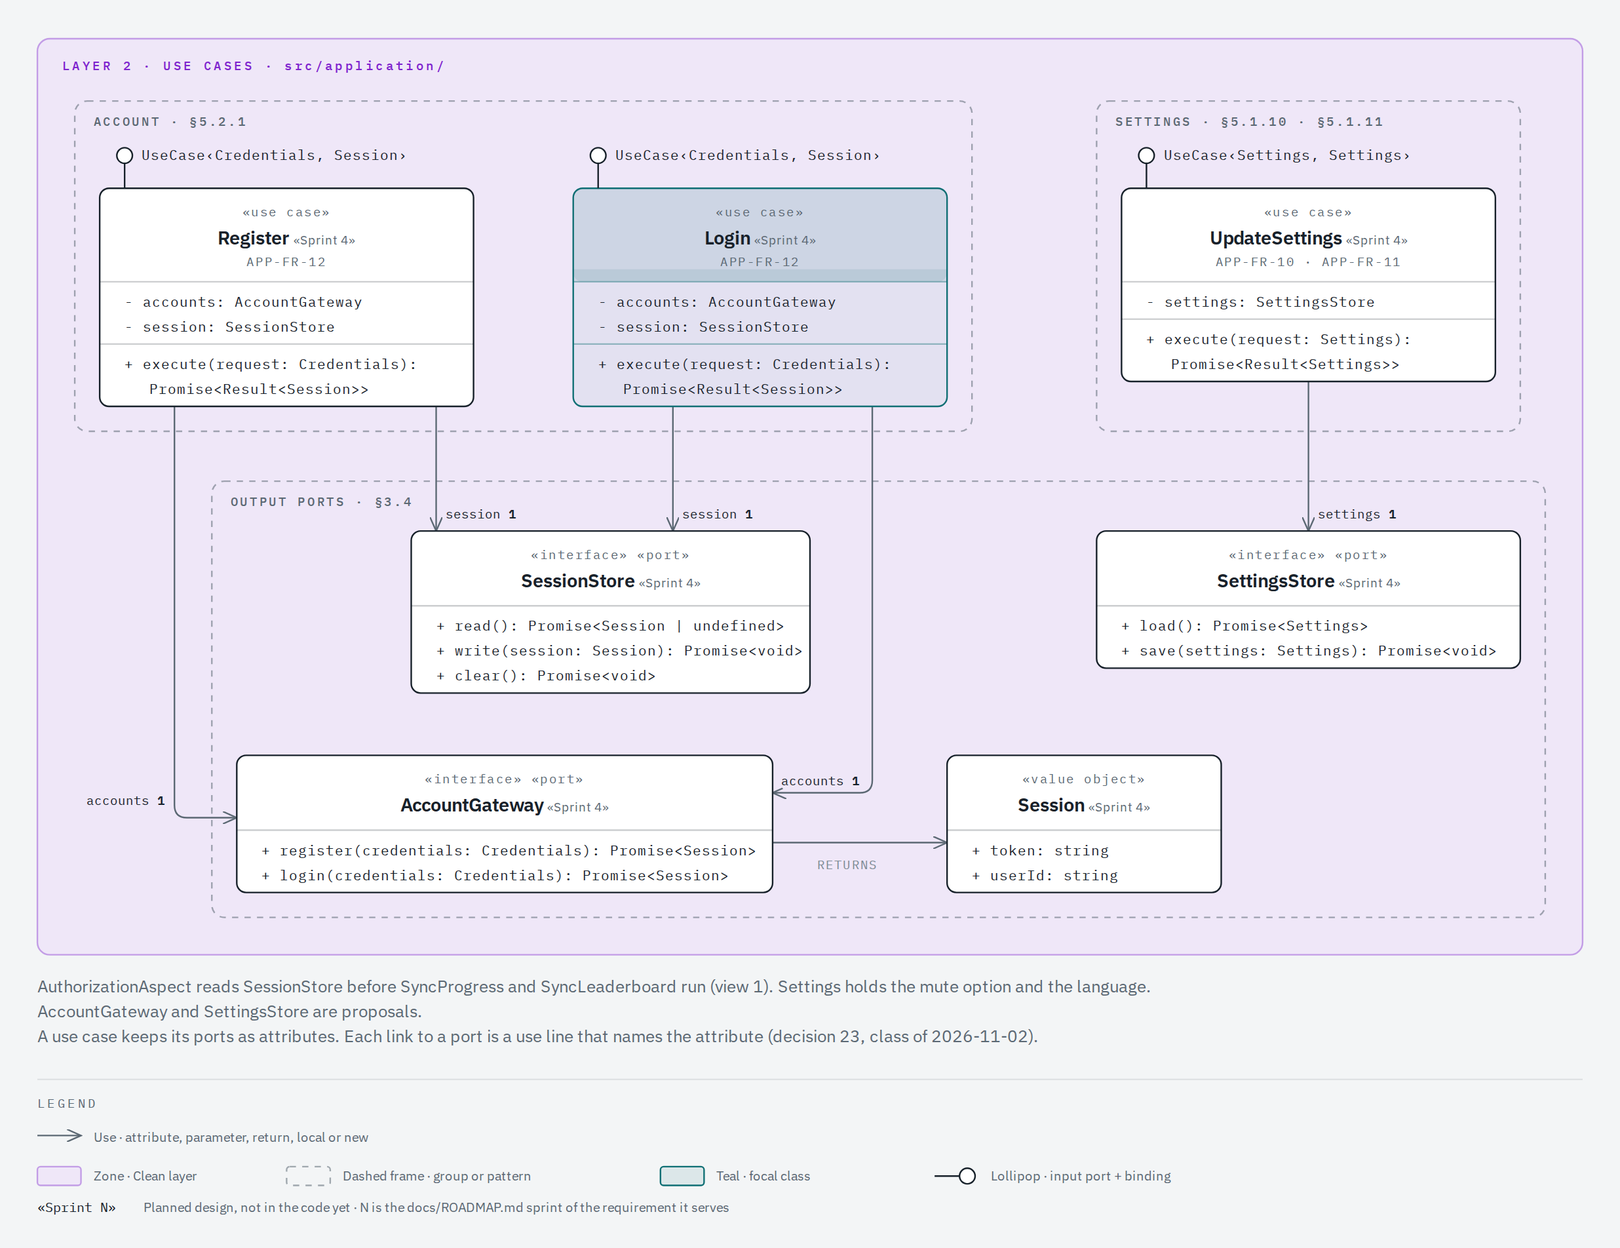
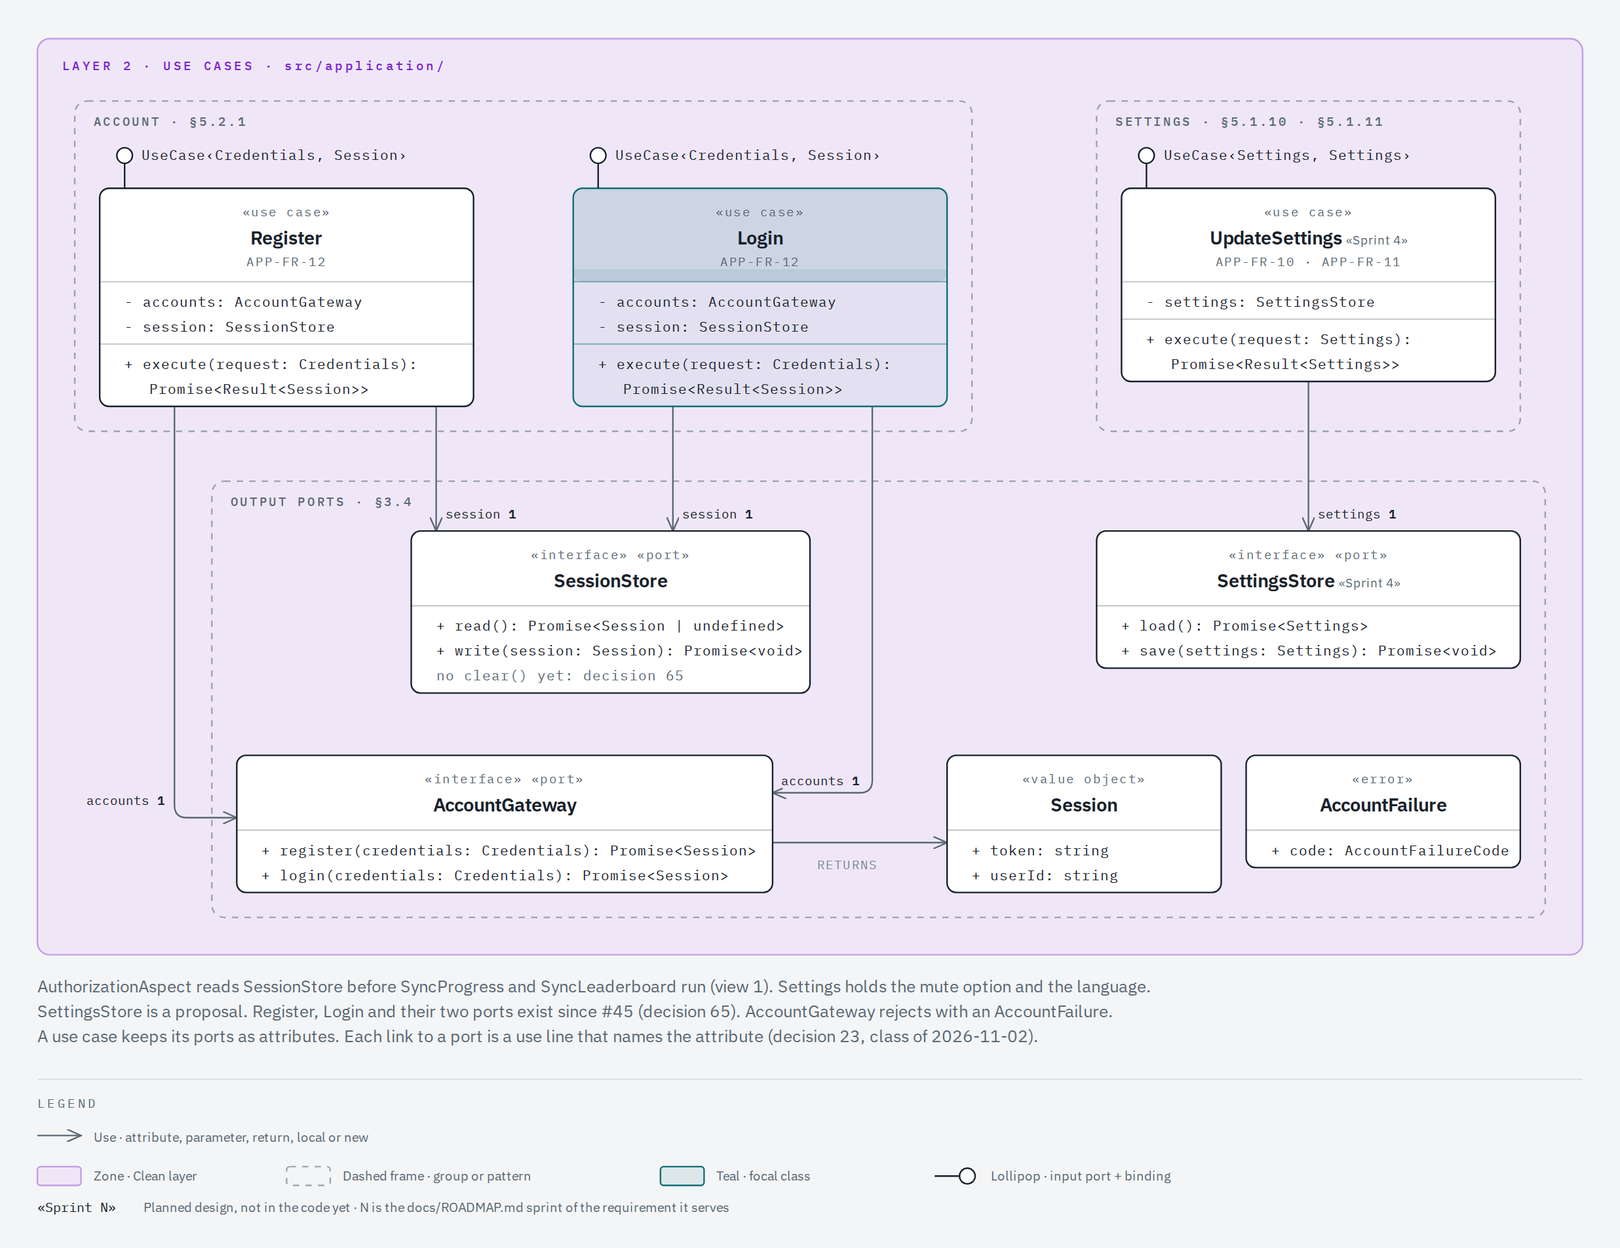
docs(architecture): record the account flow, decision 65 and the views (#45, part 3/5)

diff --git a/docs/architecture/classes/views/map-4-adapters.html b/docs/architecture/classes/views/map-4-adapters.html
@@ -64,24 +64,25 @@
       <h1>Adapters, presenters and drivers at a glance</h1>
 
       <svg
-        viewBox="0 0 1040 1981"
+        viewBox="0 0 1040 1997"
         xmlns="http://www.w3.org/2000/svg"
         role="img"
         aria-labelledby="mapad-title mapad-desc"
       >
         <title id="mapad-title">HexaBlock adapters map · UML class diagram</title>
         <desc id="mapad-desc">
-          Overview map of the 66 classes of layers 4 and 3 in 14 groups. The board layout group of
+          Overview map of the 69 classes of layers 4 and 3 in 14 groups. The board layout group of
           layer 3 holds BoardLayout, HexLayout, SquareLayout and TriangleLayout (#393). The
           composition root group holds CompositionRoot, GameRegistry, BoardFigure and the
-          ScreenServices interface of the screens (#411), the drivers group holds
-          SequentialMatchIds, the move controls group holds MoveControls, FitControls and
-          MergeControls, and the events group holds GameEventBus, GameEventListener and
-          AchievementCounterListener. Each line joins two classes: GameScreen renders BoardView and
-          keeps its GamePresenter and its MoveControls, CompositionRoot creates
-          InMemoryGameRepository, DeviceKeyValueStore implements KeyValueStore, GamePresenter keeps
-          its StateMapper and LocalProgressRepository keeps its KeyValueStore. No line touches a
-          group frame. Each group names the view that shows its members.
+          ScreenServices interface of the screens (#411), the drivers group holds SequentialMatchIds
+          and DeviceSecretStore, the repositories group holds SessionManager (#45), the move
+          controls group holds MoveControls, FitControls and MergeControls, and the events group
+          holds GameEventBus, GameEventListener and AchievementCounterListener. Each line joins two
+          classes: GameScreen renders BoardView and keeps its GamePresenter and its MoveControls,
+          CompositionRoot creates InMemoryGameRepository, DeviceKeyValueStore implements
+          KeyValueStore, DeviceSecretStore implements SecretStore, GamePresenter keeps its
+          StateMapper and LocalProgressRepository keeps its KeyValueStore. No line touches a group
+          frame. Each group names the view that shows its members.
         </desc>
         <defs>
           <marker
@@ -453,7 +454,7 @@
           x="744"
           y="806"
           width="240"
-          height="78"
+          height="128"
           rx="8"
           fill="none"
           stroke="rgba(91,104,115,0.55)"
@@ -660,6 +661,15 @@
         <!-- DeviceKeyValueStore implements KeyValueStore: realization, down into layer 3 (view 4.2) -->
         <path
           d="M968 209 L1000 209 L1000 851 L968 851"
+          fill="none"
+          stroke="#17212a"
+          stroke-width="1"
+          stroke-dasharray="5,4"
+          marker-end="url(#mapad-triangle)"
+        />
+        <!-- DeviceSecretStore implements SecretStore: realization, down into layer 3 (#45, view 4.4). It runs right of the line of DeviceKeyValueStore and crosses no line. -->
+        <path
+          d="M968 159 L1008 159 L1008 901 L968 901"
           fill="none"
           stroke="#17212a"
           stroke-width="1"
@@ -1032,7 +1042,7 @@
             </tspan>
           </text>
         </g>
-        <g data-class="SessionManager">
+        <g data-class="ConsoleLogger">
           <rect
             x="672"
             y="92"
@@ -1045,7 +1055,7 @@
           />
           <text x="742" y="113" fill="#17212a" text-anchor="middle">
             <tspan font-family="'IBM Plex Sans', sans-serif" font-size="11" font-weight="600">
-              SessionManager
+              ConsoleLogger
             </tspan>
           </text>
         </g>
@@ -1083,7 +1093,7 @@
             </tspan>
           </text>
         </g>
-        <g data-class="ConsoleLogger">
+        <g data-class="DeviceSecretStore">
           <rect
             x="828"
             y="142"
@@ -1096,7 +1106,7 @@
           />
           <text x="898" y="163" fill="#17212a" text-anchor="middle">
             <tspan font-family="'IBM Plex Sans', sans-serif" font-size="11" font-weight="600">
-              ConsoleLogger
+              DeviceSecretStore
             </tspan>
           </text>
         </g>
@@ -1540,6 +1550,34 @@
             </tspan>
           </text>
         </g>
+        <g data-class="SecretStore">
+          <rect
+            x="848"
+            y="884"
+            width="120"
+            height="34"
+            rx="4"
+            fill="#ffffff"
+            stroke="#17212a"
+            stroke-width="1"
+          />
+          <text
+            x="908"
+            y="896"
+            fill="#5b6873"
+            font-size="7"
+            font-family="'IBM Plex Mono', monospace"
+            text-anchor="middle"
+            letter-spacing="0.08em"
+          >
+            interface
+          </text>
+          <text x="908" y="909" fill="#17212a" text-anchor="middle">
+            <tspan font-family="'IBM Plex Sans', sans-serif" font-size="11" font-weight="600">
+              SecretStore
+            </tspan>
+          </text>
+        </g>
         <!-- Chips: state mappers -->
         <g data-class="StateMapper">
           <rect
@@ -1731,6 +1769,23 @@
           <text x="892" y="1139" fill="#17212a" text-anchor="middle">
             <tspan font-family="'IBM Plex Sans', sans-serif" font-size="11" font-weight="600">
               LevelGameFactories
+            </tspan>
+          </text>
+        </g>
+        <g data-class="SessionManager">
+          <rect
+            x="816"
+            y="1168"
+            width="152"
+            height="34"
+            rx="4"
+            fill="#ffffff"
+            stroke="#17212a"
+            stroke-width="1"
+          />
+          <text x="892" y="1189" fill="#17212a" text-anchor="middle">
+            <tspan font-family="'IBM Plex Sans', sans-serif" font-size="11" font-weight="600">
+              SessionManager
             </tspan>
           </text>
         </g>
@@ -2249,6 +2304,23 @@
             </tspan>
           </text>
         </g>
+        <g data-class="ApiFailure">
+          <rect
+            x="560"
+            y="1602"
+            width="152"
+            height="34"
+            rx="4"
+            fill="#ffffff"
+            stroke="#17212a"
+            stroke-width="1"
+          />
+          <text x="636" y="1623" fill="#17212a" text-anchor="middle">
+            <tspan font-family="'IBM Plex Sans', sans-serif" font-size="11" font-weight="600">
+              ApiFailure
+            </tspan>
+          </text>
+        </g>
         <!-- Footnote -->
         <text
           x="24"
@@ -2343,7 +2415,18 @@
           LevelSelectorScreen, LevelSelectorPresenter and LevelSelectorViewModel exist since #173:
           the presenter calls ListLevels of view 3.3, and the map opens the screen for Fit and Sort.
         </text>
-        <g transform="translate(0 96)">
+        <!-- The last footnote line and the legend sit 16 lower again: the footnote has one more line since #45. -->
+        <text
+          x="24"
+          y="1856"
+          fill="#5b6873"
+          font-size="11"
+          font-family="'IBM Plex Sans', sans-serif"
+        >
+          Since #45 SessionManager of layer 3 keeps the session through SecretStore, and
+          DeviceSecretStore of layer 4 implements SecretStore over the secure store (decision 65).
+        </text>
+        <g transform="translate(0 112)">
           <text
             x="24"
             y="1760"

diff --git a/docs/architecture/classes/views/uc-4-account.html b/docs/architecture/classes/views/uc-4-account.html
@@ -76,7 +76,8 @@
           Class diagram of layer 2 showing the use cases Register, Login and UpdateSettings, each
           implementing the UseCase input port with its binding. Register and Login use the
           AccountGateway and SessionStore output ports, UpdateSettings uses the SettingsStore output
-          port, and AccountGateway returns Session values.
+          port, and AccountGateway returns Session values and rejects with an AccountFailure that
+          carries a failure code.
         </desc>
         <defs>
           <marker
@@ -392,9 +393,6 @@
           text-anchor="middle"
         >
           Register
-          <tspan data-requirement="APP-FR-12" fill="#5b6873" font-size="8" font-weight="400">
-            «Sprint 4»
-          </tspan>
         </text>
         <text
           x="184"
@@ -456,9 +454,6 @@
           text-anchor="middle"
         >
           Login
-          <tspan data-requirement="APP-FR-12" fill="#5b6873" font-size="8" font-weight="400">
-            «Sprint 4»
-          </tspan>
         </text>
         <text
           x="488"
@@ -577,9 +572,6 @@
           text-anchor="middle"
         >
           SessionStore
-          <tspan data-requirement="APP-FR-12" fill="#5b6873" font-size="8" font-weight="400">
-            «Sprint 4»
-          </tspan>
         </text>
         <text x="280" y="404" fill="#17212a" font-size="9" font-family="'IBM Plex Mono', monospace">
           + read(): Promise&lt;Session | undefined&gt;
@@ -587,8 +579,8 @@
         <text x="280" y="420" fill="#17212a" font-size="9" font-family="'IBM Plex Mono', monospace">
           + write(session: Session): Promise&lt;void&gt;
         </text>
-        <text x="280" y="436" fill="#17212a" font-size="9" font-family="'IBM Plex Mono', monospace">
-          + clear(): Promise&lt;void&gt;
+        <text x="280" y="436" fill="#5b6873" font-size="9" font-family="'IBM Plex Mono', monospace">
+          no clear() yet: decision 65
         </text>
 
         <!-- Class: SettingsStore (interface, port) -->
@@ -668,9 +660,6 @@
           text-anchor="middle"
         >
           AccountGateway
-          <tspan data-requirement="APP-FR-12" fill="#5b6873" font-size="8" font-weight="400">
-            «Sprint 4»
-          </tspan>
         </text>
         <text x="168" y="548" fill="#17212a" font-size="9" font-family="'IBM Plex Mono', monospace">
           + register(credentials: Credentials): Promise&lt;Session&gt;
@@ -712,9 +701,6 @@
           text-anchor="middle"
         >
           Session
-          <tspan data-requirement="APP-FR-12" fill="#5b6873" font-size="8" font-weight="400">
-            «Sprint 4»
-          </tspan>
         </text>
         <text x="624" y="548" fill="#17212a" font-size="9" font-family="'IBM Plex Mono', monospace">
           + token: string
@@ -740,6 +726,43 @@
           UseCase‹Settings, Settings›
         </text>
 
+        <!-- Class: AccountFailure (error of the AccountGateway port, #45) -->
+        <rect
+          x="800"
+          y="484"
+          width="176"
+          height="72"
+          rx="6"
+          fill="#ffffff"
+          stroke="#17212a"
+          stroke-width="1"
+        />
+        <line x1="800" y1="532" x2="976" y2="532" stroke="rgba(23,33,42,0.22)" stroke-width="1" />
+        <text
+          x="888"
+          y="502"
+          fill="#5b6873"
+          font-size="8"
+          font-family="'IBM Plex Mono', monospace"
+          text-anchor="middle"
+          letter-spacing="0.08em"
+        >
+          «error»
+        </text>
+        <text
+          x="888"
+          y="520"
+          fill="#17212a"
+          font-size="12"
+          font-weight="600"
+          font-family="'IBM Plex Sans', sans-serif"
+          text-anchor="middle"
+        >
+          AccountFailure
+        </text>
+        <text x="816" y="548" fill="#17212a" font-size="9" font-family="'IBM Plex Mono', monospace">
+          + code: AccountFailureCode
+        </text>
         <!-- Footnote: classes the budget leaves out -->
         <text
           x="24"
@@ -758,7 +781,8 @@
           font-size="11"
           font-family="'IBM Plex Sans', sans-serif"
         >
-          AccountGateway and SettingsStore are proposals.
+          SettingsStore is a proposal. Register, Login and their two ports exist since #45 (decision
+          65). AccountGateway rejects with an AccountFailure.
         </text>
 
         <text

diff --git a/docs/architecture/flows.md b/docs/architecture/flows.md
@@ -76,19 +76,19 @@ Why this use case: it is the only path through the Command pattern and the capab
 
 ## Use case 5: sign in
 
-`Login` (APP-FR-12) signs the player in. The player sends the credentials on `AccountScreen`. `AccountPresenter` calls the `UseCase` port, and `Login` calls the `AccountGateway` port. `ApiAccountGateway` in layer 3, `src/adapters/api/`, implements that port: `ApiDtoMapper` makes a `CredentialsDto`, and `ApiClient` sends it to `AuthController.signIn()` of `hexablock-api` (API-FR-01). On success, `ApiDtoMapper` turns the `TokenDto` into a `Session`, and `Login` writes it through the `SessionStore` port, which `SessionManager` implements. On a rejected sign-in, `Login` returns a failed `Result`.
+`Login` (APP-FR-12) signs the player in (#45, decision 65 of [classes.md](classes.md)). The player sends the credentials on `AccountScreen`, the route `app/account.tsx`. `AccountPresenter` calls the `UseCase` port, and `Login` calls the `AccountGateway` port. `ApiAccountGateway` in layer 3, `src/adapters/api/`, implements that port: `ApiDtoMapper` makes a `CredentialsDto`, and `ApiClient` sends it through the transport interface `AccountApi` to `AuthController.signIn()` of `hexablock-api` (API-FR-01). Then `ApiAccountGateway` asks `AuthController.me()` for the id of the account, with the token in the `Authorization` header: the first request that sends the token. `ApiDtoMapper` turns the `TokenDto` and the `CurrentUserDto` into a `Session`, and `Login` writes it through the `SessionStore` port. `SessionManager` in layer 3 implements that port, and `DeviceSecretStore` in layer 4 keeps the session in the secure storage of the device. On a rejected sign-in, the backend answers 401, the gateway throws an `AccountFailure`, and `Login` returns a failed `Result` with the code `wrong-credentials` and writes no session.
 
-Why this use case: it is the second path to the backend, and the only one that writes the session that `AuthorizationAspect` reads before `SyncProgress` and `SyncLeaderboard` run (D27). `SaveProgress` and `ListLevels` need no session. It also shows a use case that touches no entity: the view has no layer 1 band. `SessionManager` is the single-scope driver of decision 18.
+Why this use case: it is the second path to the backend, and the only one that writes the session that `AuthorizationAspect` reads before `SyncProgress` and `SyncLeaderboard` run (D27). `SaveProgress` and `ListLevels` need no session. It also shows a use case that touches no entity: the view has no layer 1 band. `SessionManager` is the single-scope adapter of decision 18.
 
 The same endpoint is use case 2 of the API flows, in `hexablock-api/docs/architecture/flows.md`.
 
 ### Class view
 
-![Login class view: SessionManager, ApiClient, the driver, and AccountScreen in layer 4; AccountPresenter, ApiAccountGateway and ApiDtoMapper in layer 3; UseCase, Login, Credentials, Session and the SessionStore and AccountGateway ports in layer 2](classes/views/flow-5-login.png)
+![Login class view: DeviceSecretStore, ApiClient, the drivers, and AccountScreen in layer 4; AccountPresenter, ApiAccountGateway, ApiDtoMapper, the transport interface AccountApi, SessionManager and the driver interface SecretStore in layer 3; UseCase, Login, Credentials, Session and the SessionStore and AccountGateway ports in layer 2](classes/views/flow-5-login.png)
 
 ### Sequence diagram
 
-![Login sequence: AccountScreen calls onLogin() on AccountPresenter, which calls execute() on Login; Login calls login() on ApiAccountGateway, which calls toCredentialsDto() on ApiDtoMapper and signIn() on ApiClient; ApiClient sends the HTTP call to AuthController.signIn() of hexablock-api; an alt fragment shows the 200 path, where toSession() makes the Session and Login calls write() on SessionManager, and the 401 path, where Login returns Result.failure(error)](flows/views/seq-5-login.png)
+![Login sequence: AccountScreen calls onLogin() on AccountPresenter, which calls execute() on Login; Login calls login() on ApiAccountGateway, which calls toCredentialsDto() on ApiDtoMapper and signIn() on ApiClient; ApiClient sends the HTTP call to AuthController.signIn() of hexablock-api; an alt fragment shows the 200 path, where ApiAccountGateway calls currentUser(token) on ApiClient, which sends GET /v1/auth/me with the token, toSession() makes the Session and Login calls write() on SessionManager, and the 401 path, where Login returns Result.failure(error) with wrong-credentials](flows/views/seq-5-login.png)
 
 ## Other use cases
 
@@ -100,7 +100,7 @@ Each other use case follows the path of one flow above. Its own classes are in t
 | `ListLevels`      | Same path as flow 2, except that it reads: it calls `LevelRepository.list()` and `ProgressRepository.load()` and returns one `LevelSummary` per level of the chosen figure. `BundledLevelRepository` gives the bundled levels (A6). It reads the local progress and needs no session (D27). |
 | `SyncProgress`    | Planned by D27 (#46). Same path to the backend as the flow 2 diagrams, except that it goes through its own gateway port and needs the session. It pushes the local progress and merges the answer into `GameProgress` with the rule of DS-12. No view draws it yet.                         |
 | `SyncLeaderboard` | Same path to the backend as the flow 2 diagrams, except that it goes through the `LeaderboardGateway` port and `ApiLeaderboardGateway`. No view gives `ApiLeaderboardGateway` a member yet.                                                                                                 |
-| `Register`        | Same path as flow 5, except that it calls `AccountGateway.register()`, and the HTTP call goes to `AuthController.signUp()`.                                                                                                                                                                 |
+| `Register`        | Same path as flow 5, except that it calls `AccountGateway.register()`: the first HTTP call goes to `AuthController.signUp()`, and then the gateway signs the new account in as flow 5 does (#45).                                                                                           |
 | `UpdateSettings`  | Same path as flow 5 up to the port, except that it stays in the app: `LocalSettingsStore` in layer 3 implements the `SettingsStore` port over `KeyValueStore`. No HTTP call runs.                                                                                                           |
 
 ## How to read the class views
@@ -136,7 +136,7 @@ Each other use case follows the path of one flow above. Its own classes are in t
 - Flow 1: the move controls of `GameScreen` exist: `LinesControls`, `FitControls`, `SortControls` and `MergeControls` in `src/infrastructure/ui/` (#174 to #177), and `src/infrastructure/registered-games.ts` gives each game its controls. `GamePresenter.onEvent(event: GameEvent)` is a planned member, for `GameEventBus` (view 4.3 of [classes.md](classes.md)).
 - Flow 3: `StartGameRequest.levelId`, the `GameFactories` port, `LevelGameFactories` and `GamePresenter.onStart(levelId?)` are code since #172 (decision 59 of [classes.md](classes.md); S3-13 in #151, «Propuesta, pendiente del equipo»). The level definition reaches the level builder through `LevelGameFactories`: it asks `LevelRepository.levelOf()` for the definition of the chosen level, and the `LevelVariant` of the game creates the level builder of the variant and gives it to `LevelDefinition.buildWith()`, which directs it. Since #173 the level selector passes the level id to the game route, and `GameStage` gives it to `onStart(levelId)`. A start of Fit or Sort with no level id still gets the first-content level that the registry holds. Since #397 `StartGame` refuses a locked level before it asks the port. The sequence diagram draws the check as a `ref` fragment, because `ProgressRepository` and `LevelStatus` have no lifeline in it. The sequence diagram draws the code: each variant factory calls `BoardBuilder`.
 - Flow 4: `GamePresenter.undoMove` and `GamePresenter.onUndo()` exist since #178, with `redoMove` and `onRedo()`; the move controls of the game show the buttons, and `FitControls` show both. `MoveHistory.undo()` returns `void`, and `GameEngine` takes the state back through its private `restore(memento)`: the engine gives each `MoveCommand` this method as a function (decision 34, #159). Since #178 each `MoveCommand` also keeps `after`, the photo after its move, and `redo()` gives it back through the same function.
-- Flow 5: `AccountPresenter.login`, `AccountPresenter.onLogin(credentials: Credentials)`, the `client` and `mapper` attributes of `ApiAccountGateway`, `ApiDtoMapper.toCredentialsDto()`, `ApiDtoMapper.toSession()` and `ApiClient.signIn()` are planned members. No view gives `Credentials` a member. The endpoint name follows view 3.3 of the API class diagram: `AuthController.signIn(body: CredentialsDto): Promise<TokenDto>`. The answer to a rejected sign-in, a rejected `Promise` that `Login` turns into `Result.failure(error)`, is an assumption for team review.
+- Flow 5: since #45 every class and member of the flow exists in the code. No view gives `Credentials` a member. The endpoint names follow view 3.3 of the API class diagram: `AuthController.signIn(body: CredentialsDto): Promise<TokenDto>` and `AuthController.me()`. A rejected sign-in rejects with an `ApiFailure` of status 401, the gateway throws an `AccountFailure`, and `Login` turns it into `Result.failure(error)` with `wrong-credentials` (decision 65 of [classes.md](classes.md)).
 
 ## Render the images
 
